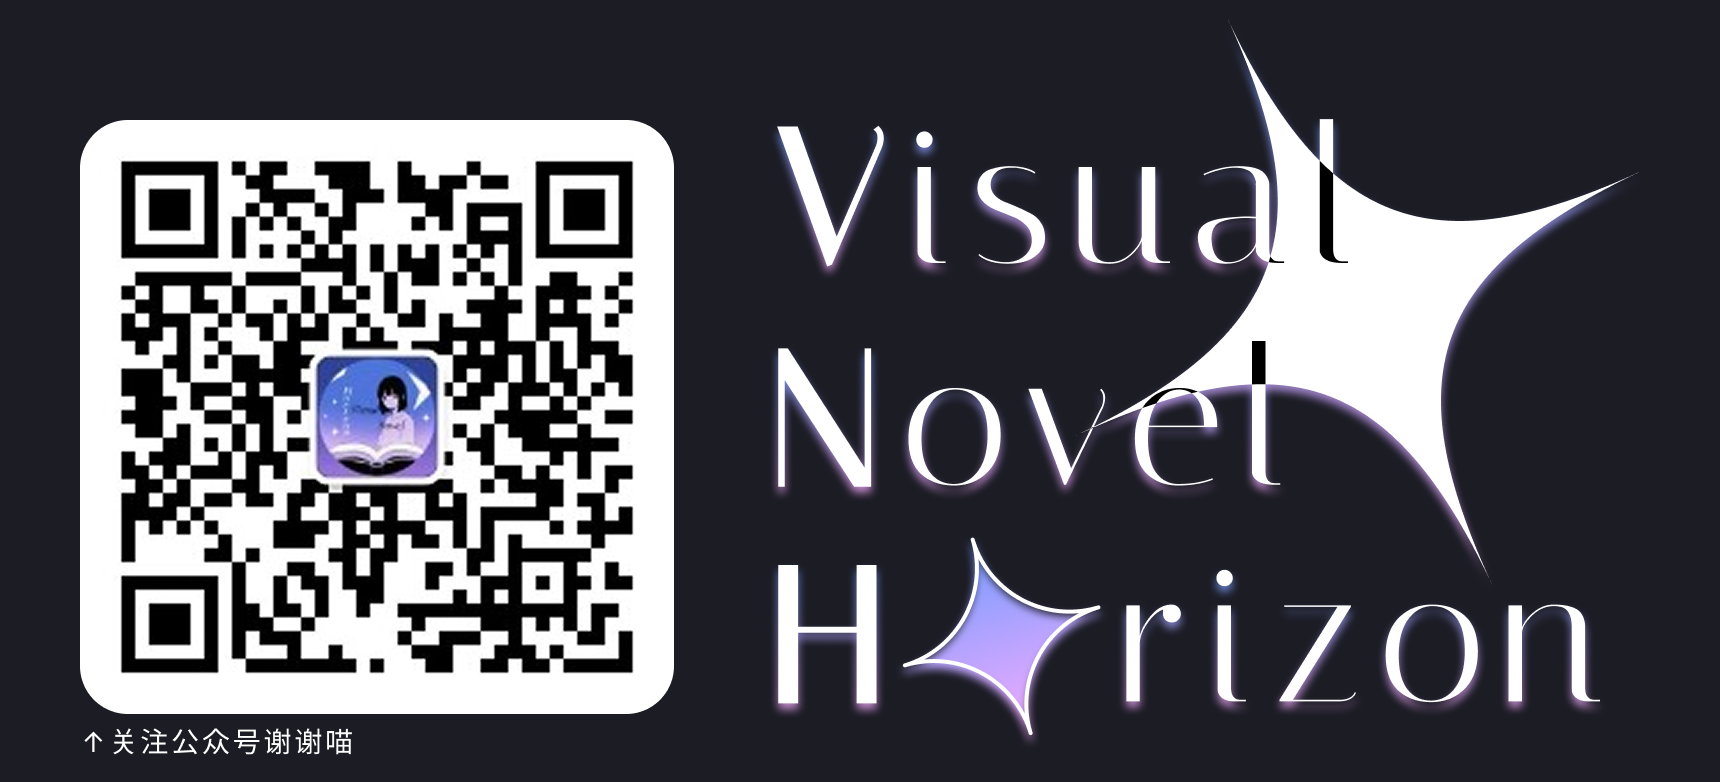
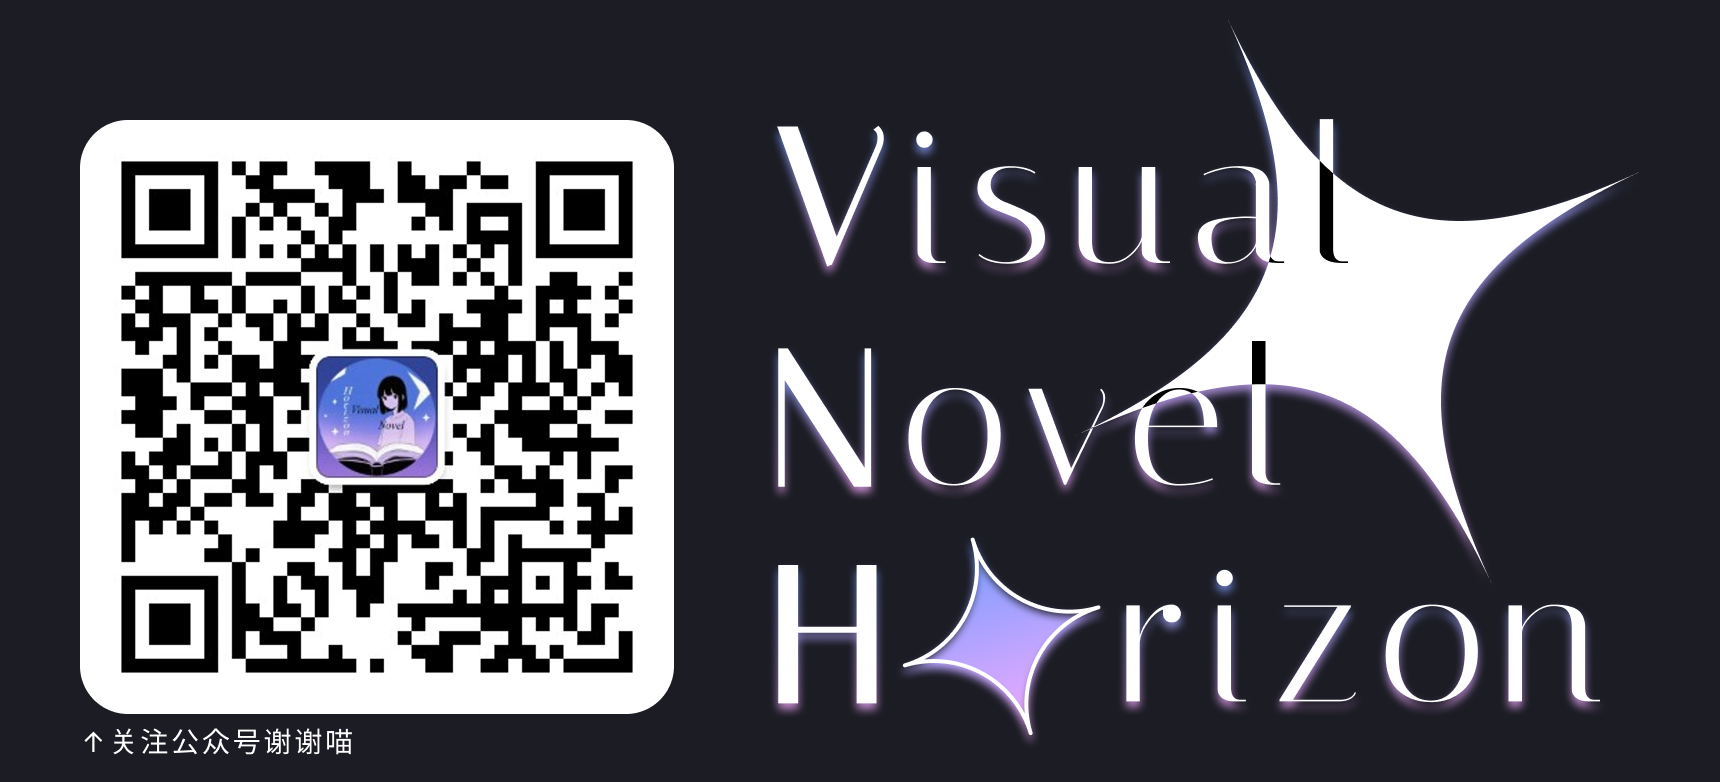
Add Umineko post and improve sidebar responsiveness
Added a new post for Umineko with associated image. Updated BackToTop.astro to make sidebar width responsive for screens smaller than 1024px. Updated poster.png image.

diff --git a/src/content/posts/umineko/index.md b/src/content/posts/umineko/index.md
@@ -1,0 +1,137 @@
+---
+title: '【玩什么】《海猫鸣泣之时》（上）──「有爱」和「没有爱」、「看见」与「看不见」'
+author: 温泉下的托卡马克
+published: 2025-09-18
+image: ./images/umineko-0.png
+category: '玩什么'
+tags: ['杂谈', '游戏推荐']
+draft: false
+---
+
+“将这颗心，送给优秀的观剧者汝。”  
+
+  
+
+00 前言
+
+初次见面、这里是托卡马克──！从今往后，我会负责给社团供稿并发布在这个公众号上面──请多多指教！
+
+作为第一篇供稿，其实想要确定下来关于读后感应该写哪一部VN这件事对我来说是一件相当难办的事情。──啊、不是您想的那种我太挑剔了之类的神必理由，而是「在这个世界上有着数不清的神作优作良作，到底该拿有限的时间去写谁更好？」这个基本经济问题还在追我。
+
+在经过了根本不慎重的思考后、作为龙吹领域大神和AVG小鬼，（虽然在标题已经写出来了）我的选择是——
+
+在龙七的作品水准频数直方图的拟合的置信区间但凡从95%降到90%都取不到的AVG最高作《海猫鸣泣之时》（以下简称《海猫》）！
+
+我大概知道您想说我放着这么多神作不说非得给这么一个作品水平的方差比东非大裂谷的跨度还要大的脚本家去尽孝简直就是孝麻了——好吧，此乃真实。那么就请诸君鉴赏一下孝子丑态吧、这样。
+
+本文前段存在轻度剧透，但应当不会过分影响您（如果没有玩过）的正常游玩与思考体验，因此可以当做是一篇小简介去看。然而如果您是追求「在推作品之前应该对作品一无所知」的完美主义者，那么还请您三思；本文后段存在对故事结构和哲学内核的介绍，尽管我尽力了不去提及任何具体桥段，但其仍然可能会极大的影响您（如果没有玩过）的思考体验。
+
+以上是前言。
+
+  
+
+01 简介
+
+首先是所有读后感不可避的简介环节。
+
+《海猫》是继承了《寒蝉鸣泣之时》的「鸣泣之时」这个衣钵的正统续作，其同人社团07th Expansion于2007年8月发售了《海猫》的Episode 1 ~ Legend of the golden witch，是时恰为《寒蝉》的Episode 8 ~ 祭囃し編所发售的一年整。在那之后，社团的脚本即竜騎士07（龙骑士07，下称龙七）按照祖传的更新规律一直写到2010年12月Episode 8 ~ Twilight of the golden witch发售。同《寒蝉》，前四个Episode为「出题篇」；后四个（不同于《寒蝉》）Episode为「散篇」。
+
+作为继任者，《海猫》传承了《寒蝉》里以「推理」为噱头的谜题环节。故事本身的场景设定与阿加莎·克里斯蒂的《无人生还》在某种程度上来说极其相似；然而就如同我会告诉所有被「推理」的招牌吸引来《寒蝉》的同学们一样，我必须提醒任何读完了Ever17或者Island一类的听见「推理」就摩拳擦掌跃跃欲试的潜在读者、即使存在着这样的组成部分，《海猫》并不是一部本格派推理游戏。甚至、将其划归于新本格派都显得有些勉强。海猫的推理环节更像是一部把本格、变格、社会和新本格派全部杂糅到一起却又四不像的环节。奉解谜为圭臬的读者在打完Episode 6与Episode 7以后通常会感到非常失望——因为谜题核心实在是太简单了、简单到只要认真思考在Episode 4就一定能得到一个像样的答案；而且就算没有得到答案也仅仅是因为游戏里出现了在本格推理作品剧情中绝对不应该出现的障眼法、仅此而已（事实上，过分追究于寻求一个「真相」还会在Episode 8里被龙七骂一顿，更加证明了寻求WHODUNIT——谁是凶手？——并非游戏的核心）。
+
+那么，《海猫》到底强在哪？
+
+  
+
+02 《海猫》的人物刻画
+
+《海猫》里的人物刻画在AVG中属于不单薄的那一档。至少和《Loopers》的那种「没有反派的样板戏」类型相比高低立判。自然，不平庸的人物刻画只是一部文字作品步上及格线的敲门砖。然而这里我将其放入「优点」的原因相当简单：人多。
+
+作为一部长篇VN（出题篇日语原文文本量超282万字，散篇262万字\[1\]；个人游玩时长135hr+），《海猫》的主要登场角色\[2\]从Episode 1初始在六轩岛上存在的18人逐渐增长到了到Episode 8收尾的47人；其中每个人物——纵使有些可能只有寥寥几笔的戏份——都可以称作「不脸谱化」的、甚至说，是有血有肉的。在《海猫》里，20+个核心角色几乎每个人都将自身内在的矛盾性化作了动机作出了一个又一个合理的行为、推动着故事向不合理处发展。
+
+此外，《海猫》里所有的核心人物的塑造的「功效」几乎都指向着故事的价值观内核；换而言之，几乎没有文字浪费在了没有为核心服务着的勾勒上。每个人物被他们自身的塑造赋予了推动阐述着核心的剧情的动力，其动力本身又被这样的核心所反哺着。
+
+……遗憾的是，诸君可能会觉得我在这里有些为吹而吹，因此故意说得玄乎其玄；但出于不想剧透的理念，我确实无法详尽举例\[3\]，还请诸君谅解。
+
+  
+
+03 对「六轩岛」的后设主义建构和对「推理」二元论式解构
+
+⚠接下来的内容有着涉及到故事结构性以及哲学内核的介绍；尽管不会提及故事的具体情节、下文仍然有可能产生预料之外的剧透效果。万请谨慎选择阅读与否。
+
+后设主义小说——或者用更为人所知的名字——元小说（meta-fiction），由美国作家威廉·加斯在他的著作《小说和生活中的人物》中提出。加斯如此描述后设主义作品\[4\]：
+
+> ……我指的并不仅仅是那些沉闷得可预见的、关于“作家正在写他正在写的东西”的作品；我指的是像博尔赫斯、巴思、弗兰·奥布莱恩等人的某些作品，在这些作品中，小说本身的“形式”被当作“原材料”，在其上可以构建出更新的形式。
+> 
+> 《小说和生活中的人物》，威廉·H·加斯
+
+  
+
+这即是说，任何后设的作品的任务不是去“渲染一个（基于现实的）世界”，而是“创造一个世界”。在这个被创造出来的世界里，作家可以不再被传统的小说「形式」所束缚，而是将这样的「形式」变成工具在其作品里肆意把玩，建构出新的形式。
+
+  
+
+因为需要显示出其虚构性（fiction-ness，或称小说性），大部分元小说都会或多或少、或有意或无意地提醒读者要被打破的形式的部分——即超越常理的、虚构的部分——的存在；这样的提醒有时是通过构造一个「故事中的故事」（博尔赫斯《花园分岔的小径》）来完成，有时候是通过破坏传统故事的叙事模式（卡尔维诺《如果在冬夜，一个旅人》\[5\]\[6\]）来完成，有时候是通过颠覆读者在阅读作品的行为中的位置（斯特恩《项狄传》）来完成、诸如此类。按照这样的不严谨的（而且是没有必要的）分类方式，《海猫》的三层叙事结构便属于第一类。
+
+  
+
+具体来说，《海猫》使用了一件从观众视角上看去、非常平凡的——甚至可以说是乏善可陈的——悬疑故事为其开头。然而，大部分观众从Ep1 Tea Party（以下简称「茶会」）开始会发现这样的故事并不是《海猫》的全部\[7\]：从这一段开始，《海猫》正式引入了在「推理小说」这个形式之上的叙事层级「上层世界」，随后又在Ep4中引入了第三个叙事层级「现实世界」。其对于「形式」的突破也正是来源于这样的三层叙事结构，在这个结构里位于最下层的六轩岛悬案不再是《海猫》作为推理剧的框架，而是变成了《海猫》作为元小说的工具。
+
+  
+
+但构造这样的工具不是目的——「工具」之所以为工具，是因为使用工具者需要其来完成某项任务。就如同博尔赫斯在《特隆、乌克巴尔、奥比斯·特蒂乌斯》中引入「特隆第一百科全书」的工具是为了建构一个贝克莱主义的唯心宇宙、卡尔维诺在《如果在冬夜，一个旅人》中不胜厌倦地使用「中断」这个工具是为了探讨“为了自我的超越，可以指望自我的增多吗？”和“所有可能的作者能被减少到十个吗？\[8\]”这样的问题\[9\]一样，《海猫》花了一整个 Episode 去渲染这样的推理小说的形式，恰恰是为了解构其「推理」的桥段。执行这样的解剖的，便是可称得上是《海猫》里最有特色的设计——红蓝字对决。
+
+  
+
+在传统的推理小说当中，侦破案件的流程往往类似于「案件发生——侦探收集证据、听取证言——侦探指控犯人——犯人交代作案缘由」的流程。换而言之，在本格的推理小说里嫌疑人（之所以不称犯人，是因为主观动机在合格的推理小说——尤其是社会派小说里——也是非常重要的指认证据）一般由唯物的、客观的证据所决定。《海猫》里红字便是这个过程的抽象。这种抽象屏蔽了收集证据和解决因证据的不确定性而引起的问题的等等桥段出现的可能性——因此红字是客观的、真理的、唯物的、绝对的；而蓝字则相反。蓝字本身是从证据得出的结论\[10\]的抽象，因为结论并不是唯一的，所以蓝字是主观的、猜测的、唯心的、相对的。这样从推理小说的形式里抽象出来的两个概念的对决──「证据」和「推理」的对决──便成为了对于整个形式的抽象。
+
+  
+
+对决本身是一种二元对立的活动，因此红蓝字首先展现的是证据-推理的不统一性。这即是说，因为对立的存在，龙七向观众展示了证据并不决定性地指向一个结论。为了达到这个道理，龙七安排主角在前期频繁的使用「恶魔的证明」的技法，即绝大多数东西（按照我的理解，我指除去康德所主张的「先天知识」外的一切东西）都是可以证明其有却无法证明其无的存在——例如一张设计蓝图并不能证明这件蓝图所描绘的房间没有暗道（因为房间主人可以后面修）、一封书信并不能证明写信的人的真实存在（可以是别人写的），诸如此类。因此证据在没有人介入解读的情况下自身发展成为结论。
+
+  
+
+为了故事的连贯性，红字是作为反制「恶魔的证明」技法的工具而出现的。然而「恶魔的证明」在Episode 2后——虽然没有再过分提及到——并没有消失。事实上，「恶魔的证明」恰恰成为了红蓝字对决的内在逻辑：红字意图通过证据本身去发展到「魔法存在」这个结论，而蓝字在现有的框架下通过个人解读去发展到「魔法不存在」的结论，其本身就是「恶魔的证明」的运用。
+
+  
+
+因此，通过这样的元技法和红蓝字两个工具，龙七实际剖开了一部推理小说，并向大家展示了其最内核存在的固有矛盾：「事实」≠「真相」。没有心（人的解读），事实就不可能成为真相。
+
+  
+
+04 「猫箱理论」
+
+当然，即使红蓝字机制本身就揭露着这样的联系，作为小说作品，进行进一步的阐明还是很有必要的。在Episode 4《海猫》化用了一个物理领域相当出名（出名到甚至《海猫》都没有对「猫箱」这个词的出处作说明）的思想实验——薛定谔的猫，并将其称为「猫箱理论」。
+
+简明介绍一下\[11\]，这个思想实验是指将一只猫、一个装有放射性物质的原子核、以及一个与原子核状态联动的毒气释放装置，置于一个完全密封、无法被外界观测的箱子（即「猫箱」）中，在接下来的一小时内，该原子核有50%的概率发生衰变。如果衰变，毒气装置就会被触发，猫会被杀死；如果未衰变，猫则会存活。根据量子力学的哥本哈根诠释，只要箱子没有被打开进行观测，箱内的整个系统就处于一种不确定的叠加态之中。原子核既衰变了，也没有衰变；猫既是死的，也是活的。只有当有一个观测者打开箱子的那一瞬间，这种叠加态才会坍缩成一个唯一、确定的结果。这个观测者并没有发现了猫的死活──其决定了猫的死活。 
+
+「猫既是生的，也是死的」的量子力学不确定性原则在《海猫》里被化用成了「既然没有证据，所有的推理都是真相」。其逻辑很简单：(无法确定猫是死的还是活的 ⇒ 猫既是死的又是活的) ⇒(无法确定推理A是正确的还是推理B是正确的 ⇒ 推理A和B都是正确的)
+
+这样的理念在游戏里主要被应用在了Ep4引入的、12年后的现实世界，但其和游戏里的红蓝对决的核心理念形成了互补，即推理不需要唯物的证据的支撑就可以自己存在。
+
+（本文未完成，因为时间问题只能分割成上下两篇发，此为上篇。非常抱歉！）
+
+99 参考资料与注释  
+
+\[1\]: 详请参见https://gamicus.fandom.com/wiki/List\_of\_longest\_video\_game\_scripts[#cite](javascript:;)\_note-vn\_jp\_text-5
+
+\[2\]: 以Project Umineko / 日不落汉化组汉化版本的Characters页人数为参考，部分重合的人物作重复计数。
+
+\[3\]: 同时，我想借此机会重申本文里的所有观点都是个人感受，是猫箱。我无法做到客观地看待这部作品——也没有人可以——但我非常感激任何向我倾泻批评的声音的讨论者的存在、并非常愿意深入探求诸类批判的存在之存在。
+
+\[4\]: Fictions and the Figures in Life, William H. Gass, 1971. Random House Inc. ISBN: 0394717716. p.24 - p.25. 因为没有找到对应的中文版，所有中文翻译均为个人渣翻。
+
+\[5\]: 事实上，《如果在冬夜，一个旅人》也是由许多不同的「子故事」组成的。由此可以看出，多故事层级是元小说常用的结构；但这里仍需强调的是，其不是元小说唯一的结构。按照加斯的说法，一切不尝试拟真而是试图是让读者意识到其虚构性的，都可以被称作是元小说。
+
+\[6\]: 有意思的是，我在这里的举例和所讨论的对象（《花园》、《旅人》和《海猫》）与一篇探究后设主义的论文中的举例竟然完全重合了。尽管主观上我认为我并没有抄袭的意思（这篇论文的确是我在搜索的初期就看到了；然而我很遗憾地没有细看，也没有关注到其例证），我还是想充满敬意地将其引用于此：
+
+李馨. 文本迷宫与叙事棋盘：后设主义文本的比较分析\[J\]. 世界文学研究, 2024, 12(5): 439-445. https://doi.org/10.12677/wls.2024.125067
+
+\[7\]: 实际上，“在Ep1茶会开始”是一个稍显乐观的估计；因为这并不是龙七第一次玩这样的「打破第四面墙」（伪）手法。和《海猫》Ep1茶会类似，《寒蝉》的OMAKE里也出现了角色（看似）在与玩家对话的桥段。区别是——《寒蝉》OMAKE里的故事并没有真正影响到主线；而《海猫》的茶会与????是事实地与主线连接在一起的。
+
+\[8\]: “所有可能的作者能被减少到十个吗？”这一句存在着翻译争议，有说法认为此处应该译成“所有可能的作者能被减少到一个吗？”。
+
+\[9\]: 《如果在冬夜，一个旅人》, 伊塔洛·卡尔维诺, 2012. 萧天佑译, 译林出版社. ISBN: 9787544722292. 前言. 事实上这两个问题只是卡尔维诺想要探讨的（或者说，探讨了的）核心问题之二。为了避免冗杂性故我在这里只放了这两个问题。
+
+\[10\]: 根据《海猫》里的用语，这里的「结论」这个词是可以和「推理」混用的。为了解歧义，如果需要的话，下文会用「推理的过程」来指代思考过程。
+
+\[11\]: 我对物理学一无所知，因而若是出现了任何错误的或是存在纰漏的解释，请务必在任何能联系到我的地方指正说明。万分感谢！
